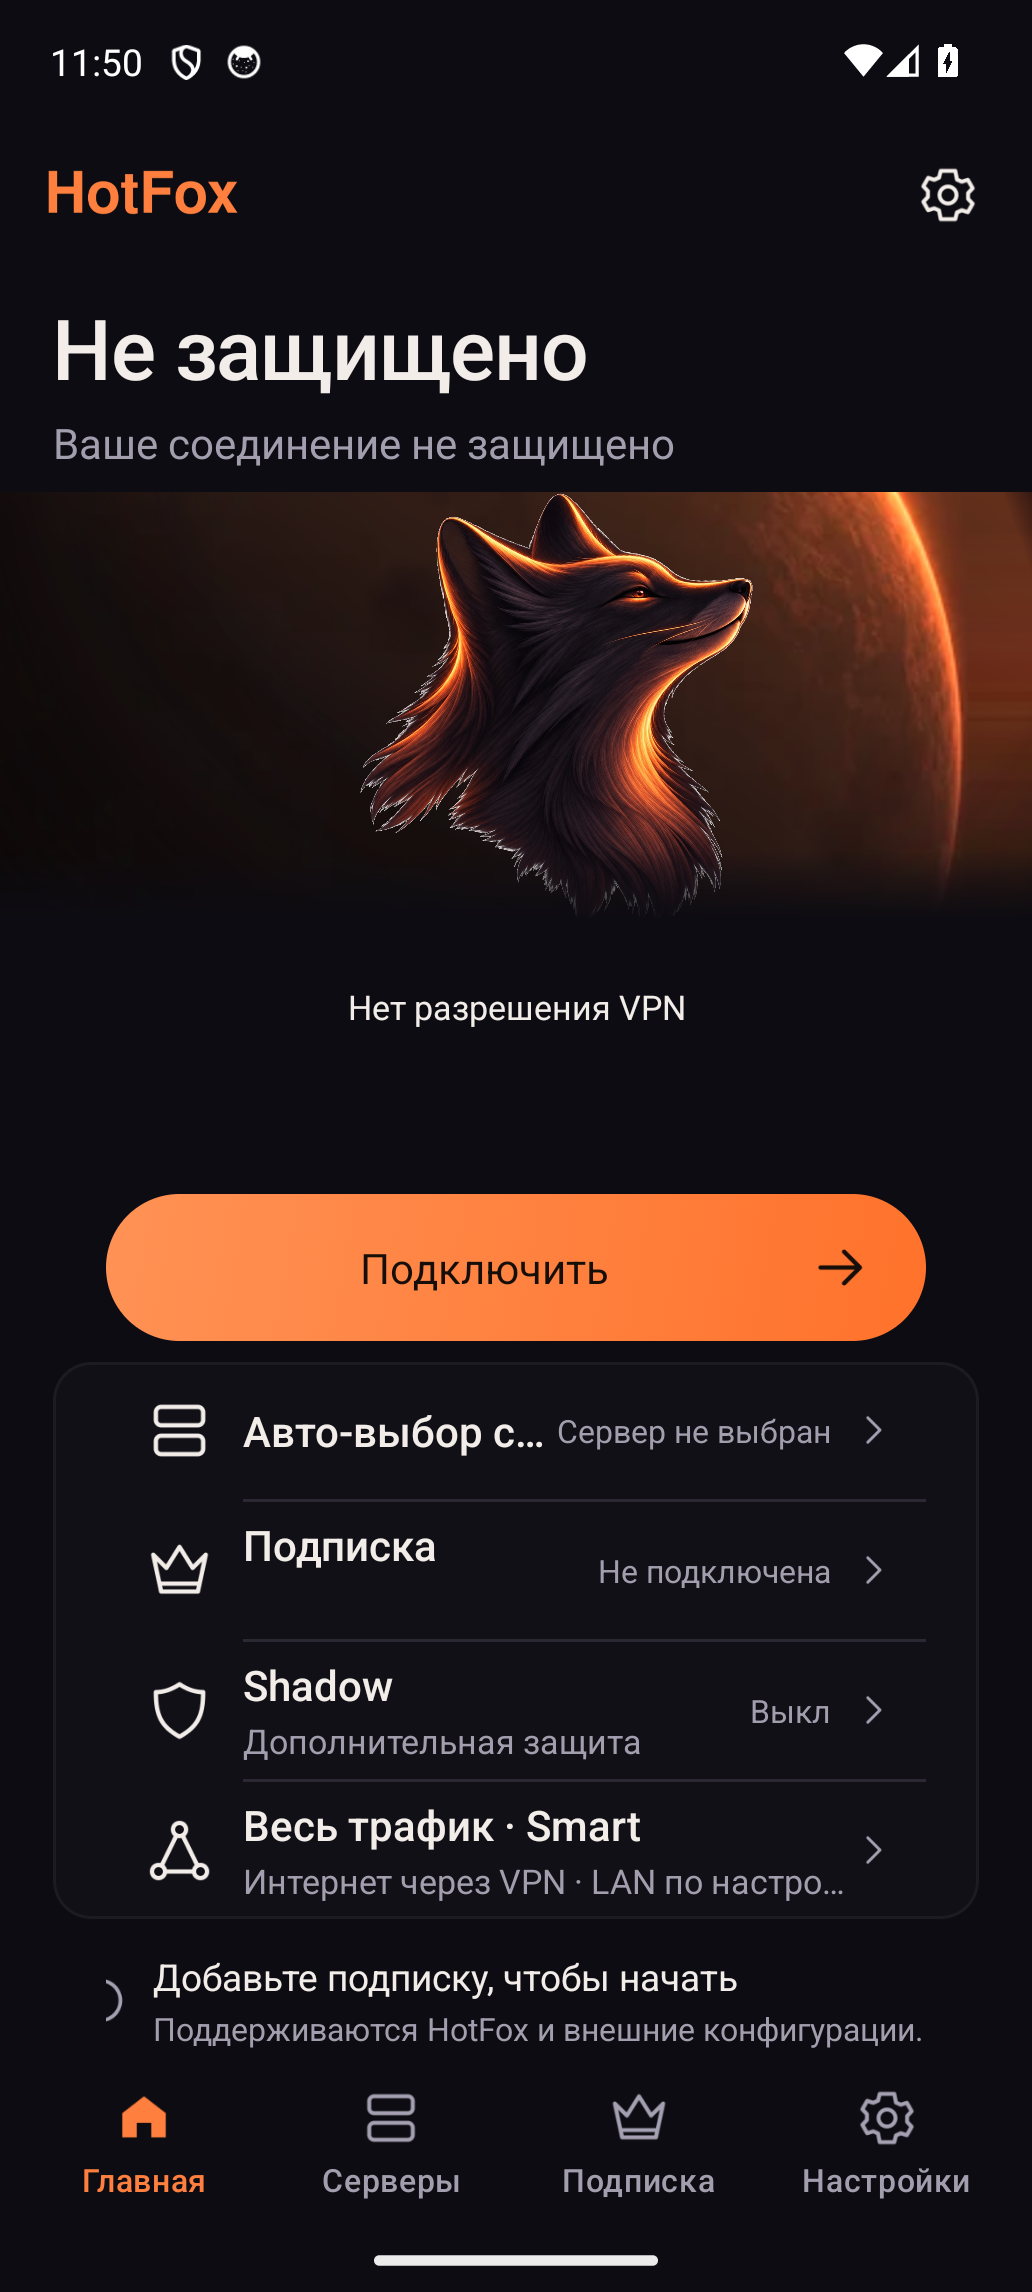
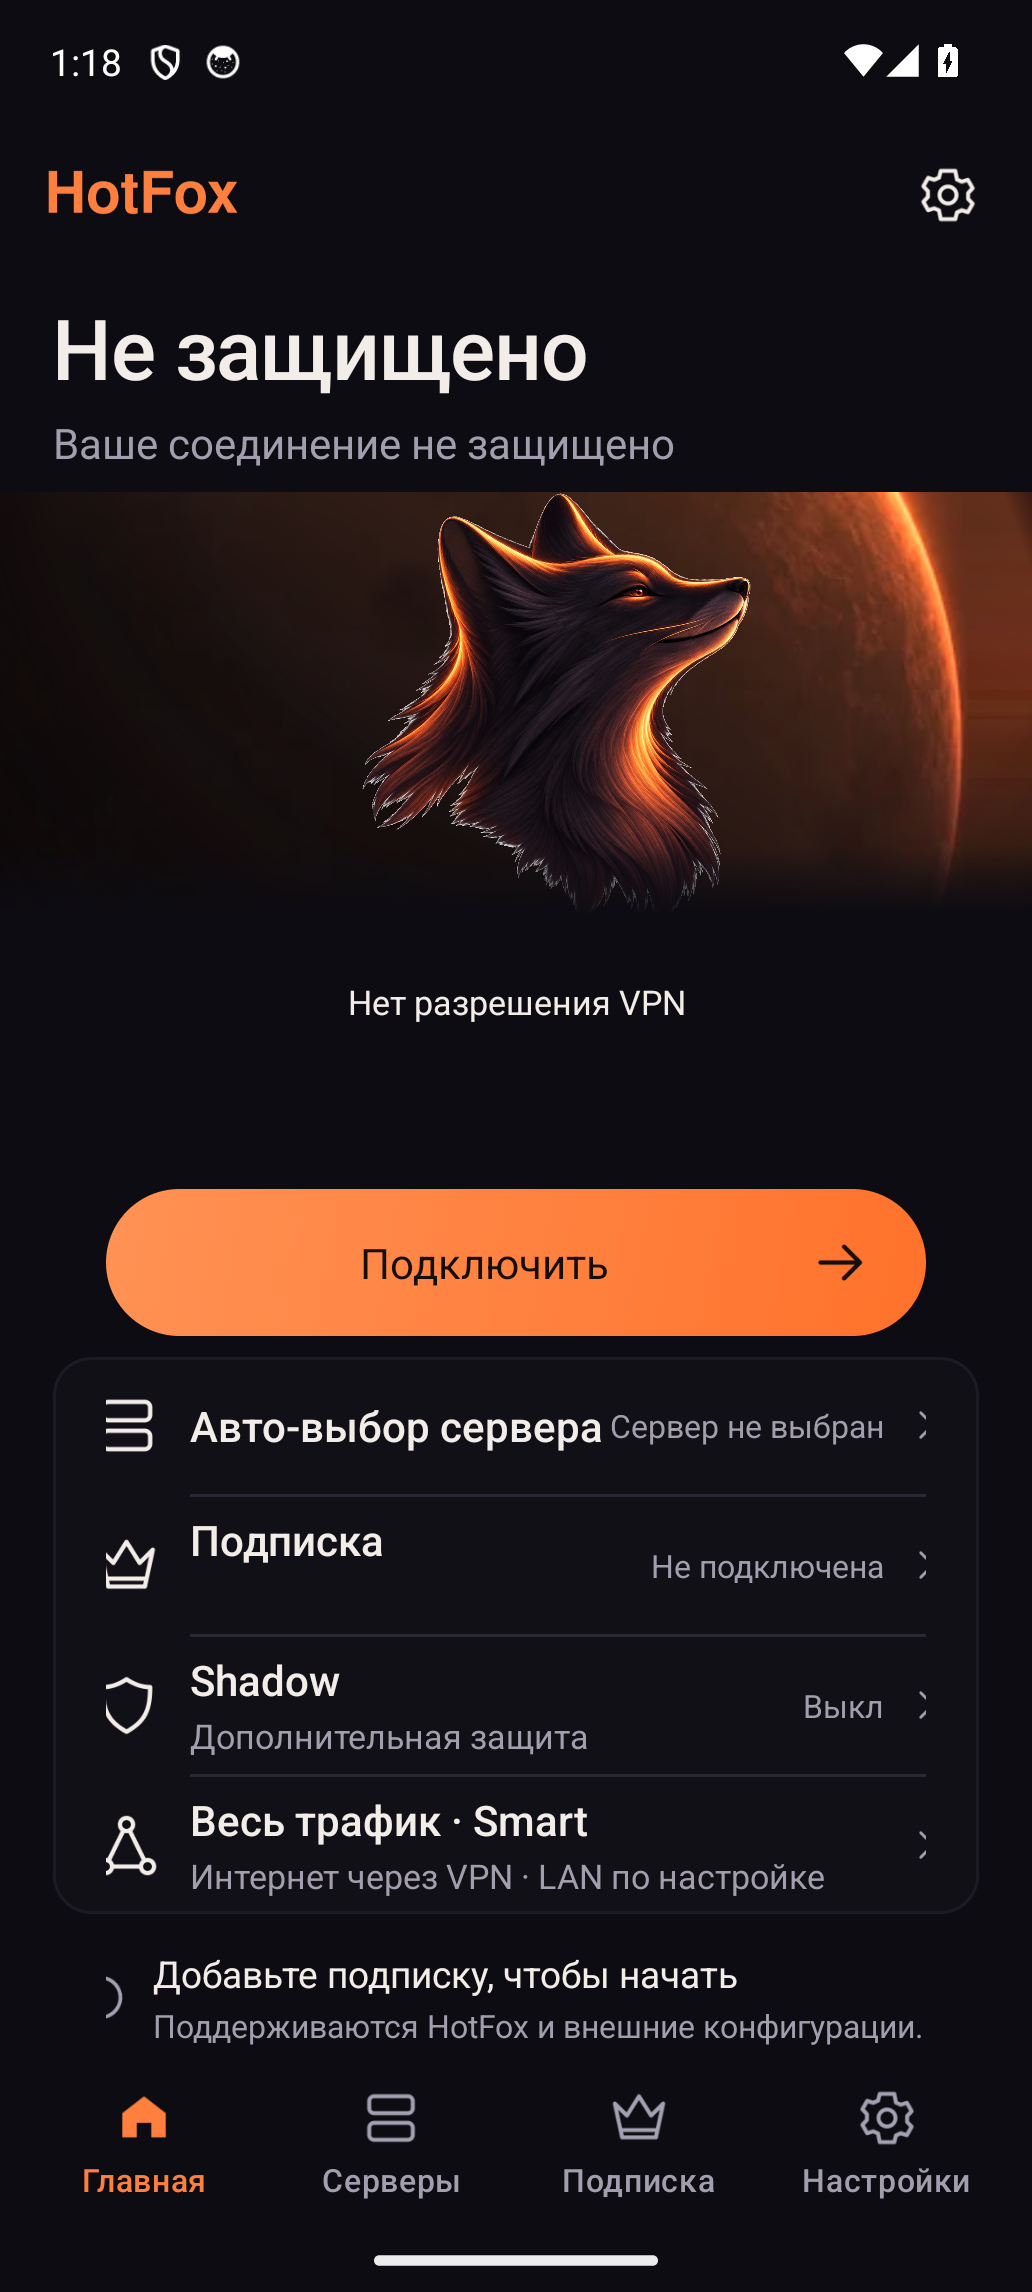
ui(v12): keep StatePanel content above the Home CTA
Put permission, connecting progress and connected metrics in a weighted
content slot above the 56dp CTA so route labels no longer sit under
Disconnect. Capture fresh ru-RU Disconnected/Connecting/Connected frames.

diff --git a/verification/ui_rebuild/HOTFOX_V12_NO_OVERLAP_ACCEPTANCE.md b/verification/ui_rebuild/HOTFOX_V12_NO_OVERLAP_ACCEPTANCE.md
@@ -1,0 +1,93 @@
+# HotFox V12 — no-overlap Home acceptance
+
+Date: 2026-09-13  
+Branch: `cursor/hotfox-ui-pixel-lock-rebuild`  
+Locale: `ru-RU`  
+Viewport: `1032×2292` @ `420dpi` (393×873 dp)  
+Emulator: `HotFox_V51_API34_Clean`, software (`-accel off`)
+
+Status: **V12 Home scaffold implemented and captured.**  
+Visual/pixel lock vs 18-board set: **not claimed.**  
+RELEASE READY: **NO.**  
+Runtime/physical VPN E2E: **NOT EXECUTED.**
+
+## Changed files
+
+- `bootstrap/hotfox_2_2_0/app/src/main/res/layout/activity_main.xml` — shared Home column: HeaderStatus, HeroSlot, StatePanel, QuickSettings, FooterInfoSlot; StatePanel is a vertical LinearLayout (content + CTA), not a FrameLayout overlay.
+- `bootstrap/hotfox_2_2_0/app/src/main/res/values/hf_hero_dimens.xml` — `hf_home_hero_min_height`, `hf_home_state_panel_height`, `hf_home_cta_height`, `hf_home_footer_height`.
+- `bootstrap/hotfox_2_2_0/app/src/main/java/com/v2ray/ang/ui/MainActivity.kt` — Connecting/Connected keep FooterInfoSlot reserved (`View.INVISIBLE`, not `GONE`).
+- `bootstrap/hotfox_2_2_0/app/src/main/java/com/v2ray/ang/ui/HotfoxHeroComposition.kt` / `HotFoxHeroArtwork.kt` — fox/planet geometry relative to HeroSlot only (from prior V12 scaffold commit).
+- `bootstrap/hotfox_2_2_0/app/src/debug/java/com/v2ray/ang/ui/HotfoxHomeSlotGuard.kt` — debug overlap asserts.
+- `bootstrap/hotfox_2_2_0/app/src/debug/java/com/v2ray/ang/ui/HotfoxUiQaPainter.kt` — in-place chrome paint.
+- `bootstrap/hotfox_2_2_0/app/src/debug/java/com/v2ray/ang/ui/HotfoxUiScreenshotChromeReceiver.kt` — debug broadcast `UI_SCREENSHOT_CHROME`.
+- `bootstrap/hotfox_2_2_0/app/src/debug/AndroidManifest.xml` — exported debug receiver.
+- `bootstrap/hotfox_2_2_0/app/src/test/java/com/v2ray/ang/ui/HotfoxUiScreenshotFixtureLeakTest.kt` — receiver name stays out of `src/main`.
+- `verification/ui_rebuild/capture_home_v12_no_overlap.py` — warm 05→06→07 capture.
+- `verification/ui_rebuild/actual_v12_no_overlap/05.png`, `06.png`, `07.png`, `home_v12_sbs.png`.
+
+VPN engine, Xray/HEV, routing, DNS/IPv6, entitlement, subscription stores, and CONNECTED truth were not modified.
+
+## Architecture
+
+Disconnected / Connecting / Connected share one measured vertical scaffold inside `connection_column`:
+
+1. `header_status_slot` — brand + headline + subtitle  
+2. `hero_slot` (`layout_weight=1`, `clipChildren=true`) — only fox/planet may layer  
+3. `state_panel_slot` — **fixed** `hf_home_state_panel_height`  
+   - `state_panel_content` (`weight=1`) — permission / connecting rail / metrics  
+   - `connect_action_host` — 56dp CTA below content, not overlaid on it  
+4. `layout_connection_rows` — QuickSettings in normal flow, `maxLines=1` + ellipsize  
+5. `footer_info_slot` — **always occupies** `hf_home_footer_height`; copy is `INVISIBLE` in Connecting/Connected  
+6. `hotfox_bottom_nav` — opaque sibling under the pager, not an overlay
+
+Hero geometry is identical across the three states (`HomeHeroGeometry`, `setMode(HOME_DISCONNECTED)`).
+
+## Removed hacks
+
+- Full-screen fox overlay behind controls (pre-V12).  
+- ScrollView + `layout_weight` that measured later Home children at zero height.  
+- `GONE` footer that grew HeroSlot and moved QuickSettings.  
+- StatePanel FrameLayout that stacked the CTA on top of Connected route labels.  
+- Per-state absolute fox Y / overlay offsets (not restored).
+
+## Build evidence
+
+| Check | Result |
+| --- | --- |
+| `:app:assemblePlaystoreDebug` | PASS |
+| `:app:testPlaystoreDebugUnitTest` | PASS, 370 tests, 0 failures |
+| `python3 verification/ui_rebuild/check_no_fixture_leak_v51.py` | PASS |
+| `python3 verification/static_check_2_2_0.py` | PASS |
+| 360×800 / fontScale 1.15 | NOT EXECUTED |
+
+## Visual evidence (ru-RU, same resolution)
+
+- Disconnected: `verification/ui_rebuild/actual_v12_no_overlap/05.png`
+- Connecting: `verification/ui_rebuild/actual_v12_no_overlap/06.png`
+- Connected: `verification/ui_rebuild/actual_v12_no_overlap/07.png`
+- Side-by-side: `verification/ui_rebuild/actual_v12_no_overlap/home_v12_sbs.png`
+
+Pixel comparison at `1032×2292`:
+
+- Hero orange occupancy identical in 05/06/07 (`0.040260`).  
+- QuickSettings top band `y=1350–1450`: **0.00** mean channel delta across all three states.  
+- Nav `05` vs `06`: **0.00**; `07` differs only by the protected nav label `Соединение`.  
+- Footer band differs 05 vs 06/07 because helper copy is hidden, **slot height kept**.
+
+## Invariant verification
+
+- Functional regions do not overlap.  
+- Fox/planet stay inside HeroSlot; no art in bottom nav.  
+- Progress rail and traffic stats sit in StatePanel, not over the fox face.  
+- Connected route labels (`Вы` / `HotFox` / `Интернет`) sit above `Отключить`, not under the CTA.  
+- QuickSettings top is stable (measured 0px delta).  
+- Row copy does not wrap into the next row.  
+- No `offset` / absolute Y used for Home region placement.  
+- Production `CONNECTED` / `Защищено` remains gated by real readiness; 07 is debug visual chrome only.
+
+## Remaining honestly
+
+- Pixel-perfect match to the 18 style boards is not claimed.  
+- Compact 360×800 and fontScale 1.15 were not recaptured in this pass.  
+- Software emulator ANR dialogs remain an environment issue; Wait-only, no Close app.  
+- Runtime VPN path and physical device gate are deferred.
